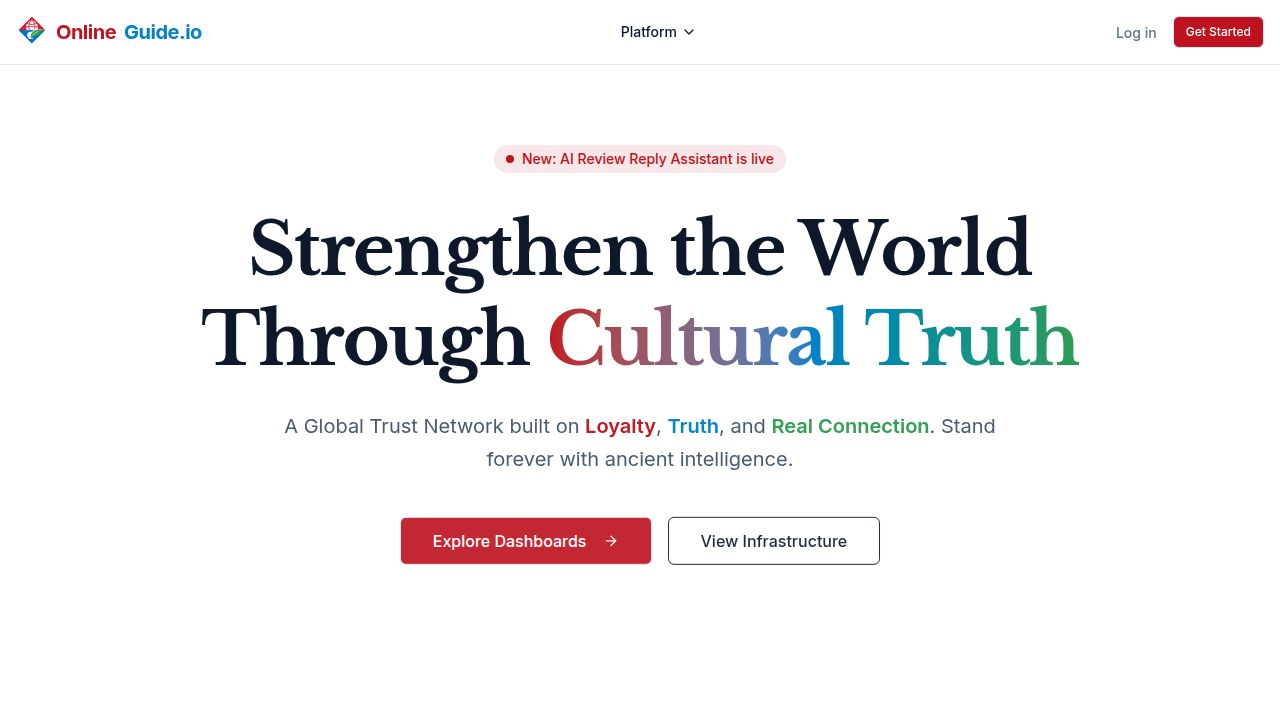
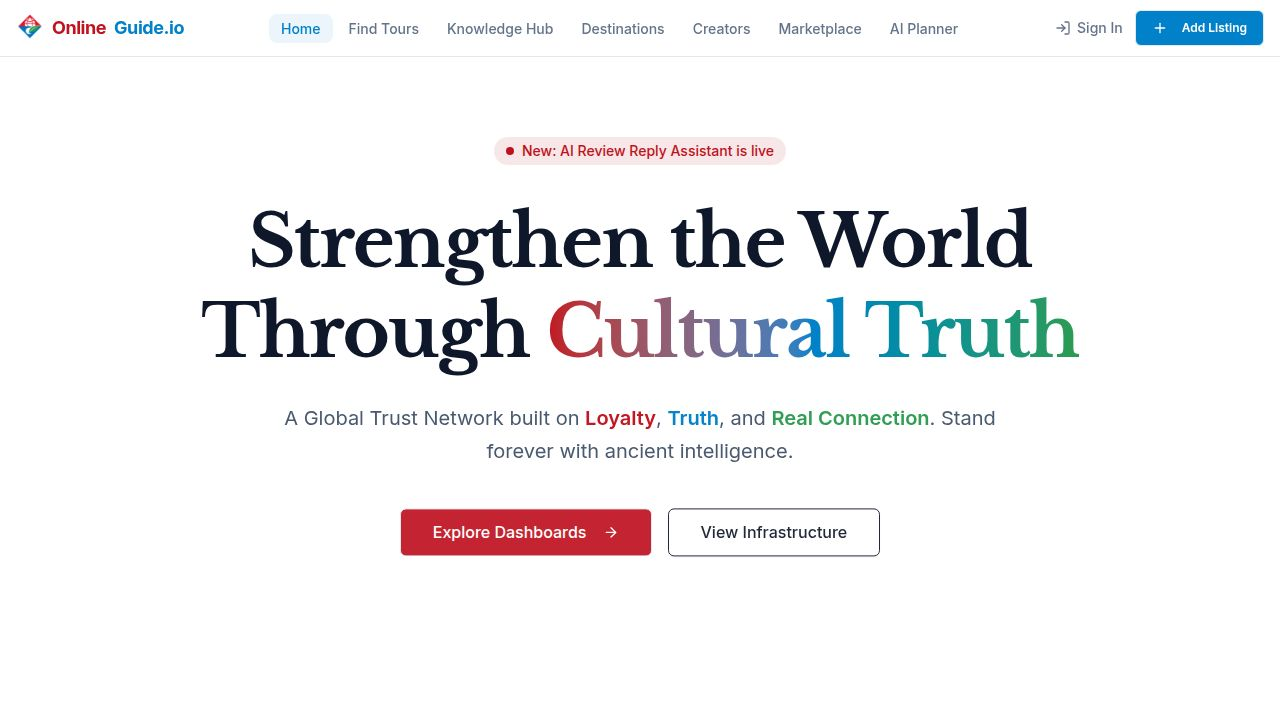
Update header layout with flat navigation and login/signup buttons
Refactor `Navbar` component to replace dropdown menu with flat navigation links and add Sign In/Add Listing buttons, updating icons and layout structure.

Replit-Commit-Author: Agent
Replit-Commit-Session-Id: 3c2bed22-3c86-448a-a54f-eb99de5b6c75
Replit-Commit-Checkpoint-Type: full_checkpoint
Replit-Commit-Event-Id: 7af0c9f6-9ca0-44e9-ac16-c6bc7ed03465
Replit-Commit-Screenshot-Url: https://storage.googleapis.com/screenshot-production-us-central1/2dc7b8b6-7c9c-47a3-91fe-757355743503/3c2bed22-3c86-448a-a54f-eb99de5b6c75/rVbjtpM
Replit-Helium-Checkpoint-Created: true

diff --git a/client/src/components/layout.tsx b/client/src/components/layout.tsx
@@ -1,120 +1,112 @@
 import { Link, useLocation } from "wouter";
-import { Menu, Zap, BarChart, MapPin, LayoutDashboard, ChevronDown, Bot, MessageSquare, TrendingUp, BookOpen, Building2, Map, GitBranch } from "lucide-react";
+import { Menu, MapPin, Bot, Map, Compass, Users, ShoppingBag, Sparkles, Plus, LogIn } from "lucide-react";
 import * as React from "react";
 import { Button } from "@/components/ui/button";
 import { Sheet, SheetContent, SheetTrigger } from "@/components/ui/sheet";
-import {
-  DropdownMenu,
-  DropdownMenuContent,
-  DropdownMenuItem,
-  DropdownMenuLabel,
-  DropdownMenuSeparator,
-  DropdownMenuTrigger
-} from "@/components/ui/dropdown-menu";
+
+const NAV_LINKS: { href: string; label: string; icon: React.ElementType }[] = [
+  { href: "/", label: "Home", icon: Map },
+  { href: "/tours-map", label: "Find Tours", icon: Compass },
+  { href: "/map", label: "Knowledge Hub", icon: Sparkles },
+  { href: "/map", label: "Destinations", icon: MapPin },
+  { href: "/map", label: "Creators", icon: Users },
+  { href: "/map", label: "Marketplace", icon: ShoppingBag },
+  { href: "/map", label: "AI Planner", icon: Bot },
+];
 
 export function Navbar() {
   const [location] = useLocation();
-  const isActive = (path: string) => location === path;
 
   return (
     <header className="sticky top-0 z-50 w-full border-b bg-background/80 backdrop-blur-md supports-[backdrop-filter]:bg-background/60">
-      <div className="container mx-auto px-4 h-16 flex items-center justify-between">
+      <div className="container mx-auto px-4 h-14 flex items-center justify-between gap-4">
         <Link href="/">
-          <span className="flex items-center gap-2 font-bold text-xl tracking-tight hover:opacity-90 transition-opacity cursor-pointer">
-            <img src="/logo.png" alt="OnlineGuide.io" className="h-8 w-auto" />
+          <span className="flex items-center gap-2 font-bold text-lg tracking-tight hover:opacity-90 transition-opacity cursor-pointer flex-shrink-0" data-testid="link-logo">
+            <img src="/logo.png" alt="OnlineGuide.io" className="h-7 w-auto" />
             <span className="text-[#C1121F]">Online</span>
             <span className="text-[#0081C9]">Guide.io</span>
           </span>
         </Link>
 
-        <nav className="hidden md:flex items-center gap-6">
-          <DropdownMenu>
-            <DropdownMenuTrigger asChild>
-              <button className="flex items-center gap-1 text-sm font-medium transition-colors hover:text-primary cursor-pointer outline-none">
-                Platform <ChevronDown className="h-4 w-4" />
-              </button>
-            </DropdownMenuTrigger>
-            <DropdownMenuContent align="start" className="w-[300px] p-4">
-              <DropdownMenuLabel className="text-xs font-bold text-muted-foreground uppercase tracking-wider mb-2">Core</DropdownMenuLabel>
-              <Link href="/map">
-                <DropdownMenuItem className="flex items-start gap-3 p-3 cursor-pointer">
-                  <Map className="h-5 w-5 text-[#0081C9] mt-0.5" />
-                  <div>
-                    <div className="font-bold">Knowledge Hub</div>
-                    <div className="text-xs text-muted-foreground">All-in-One: Map, Hotels, Travel, AI & more</div>
-                  </div>
-                </DropdownMenuItem>
+        <nav className="hidden lg:flex items-center gap-1 flex-1 justify-center" data-testid="nav-main">
+          {NAV_LINKS.map((link) => {
+            const isActive = location === link.href;
+            return (
+              <Link key={link.label} href={link.href}>
+                <span
+                  className={`px-3 py-1.5 rounded-lg text-sm font-medium transition-colors cursor-pointer whitespace-nowrap ${
+                    isActive
+                      ? "text-[#0081C9] bg-[#0081C9]/8"
+                      : "text-muted-foreground hover:text-foreground hover:bg-slate-100"
+                  }`}
+                  data-testid={`nav-${link.label.toLowerCase().replace(/\s/g, "-")}`}
+                >
+                  {link.label}
+                </span>
               </Link>
-              <Link href="/dashboard">
-                <DropdownMenuItem className="flex items-start gap-3 p-3 cursor-pointer">
-                  <LayoutDashboard className="h-5 w-5 text-slate-600 mt-0.5" />
-                  <div>
-                    <div className="font-bold">Dashboard</div>
-                    <div className="text-xs text-muted-foreground">Analytics & management console</div>
-                  </div>
-                </DropdownMenuItem>
-              </Link>
-              <Link href="/tours-map">
-                <DropdownMenuItem className="flex items-start gap-3 p-3 cursor-pointer">
-                  <Map className="h-5 w-5 text-blue-600 mt-0.5" />
-                  <div>
-                    <div className="font-bold">Tours Map</div>
-                    <div className="text-xs text-muted-foreground">Interactive Cambodia tourism map</div>
-                  </div>
-                </DropdownMenuItem>
-              </Link>
-              <Link href="/graph-explorer">
-                <DropdownMenuItem className="flex items-start gap-3 p-3 cursor-pointer">
-                  <GitBranch className="h-5 w-5 text-violet-600 mt-0.5" />
-                  <div>
-                    <div className="font-bold">Graph Explorer</div>
-                    <div className="text-xs text-muted-foreground">Knowledge graph & node relationships</div>
-                  </div>
-                </DropdownMenuItem>
-              </Link>
-            </DropdownMenuContent>
-          </DropdownMenu>
+            );
+          })}
         </nav>
 
-        <div className="flex items-center gap-4">
+        <div className="hidden lg:flex items-center gap-3 flex-shrink-0">
           <Link href="/login">
-            <span className="hidden md:inline-block text-sm font-medium text-muted-foreground hover:text-primary cursor-pointer">
-              Log in
+            <span className="flex items-center gap-1.5 text-sm font-medium text-muted-foreground hover:text-foreground cursor-pointer transition-colors" data-testid="nav-sign-in">
+              <LogIn className="h-4 w-4" /> Sign In
             </span>
           </Link>
           <Link href="/map">
-            <Button variant="default" size="sm" className="hidden md:inline-flex">
-              Get Started
+            <Button size="sm" className="bg-[#0081C9] hover:bg-[#006ba3] text-white font-semibold px-4 h-9" data-testid="nav-add-listing">
+              <Plus className="h-4 w-4 mr-1.5" /> Add Listing
             </Button>
           </Link>
-
-          <Sheet>
-            <SheetTrigger asChild>
-              <Button variant="ghost" size="icon" className="md:hidden">
-                <Menu className="h-5 w-5" />
-              </Button>
-            </SheetTrigger>
-            <SheetContent side="right">
-              <div className="flex flex-col gap-6 mt-6">
-                <div className="space-y-4">
-                  <h4 className="text-sm font-bold text-muted-foreground uppercase tracking-wider">Platform</h4>
-                  <Link href="/map"><span className="block text-lg font-medium">Knowledge Hub</span></Link>
-                  <Link href="/tours-map"><span className="block text-lg font-medium">Tours Map</span></Link>
-                  <Link href="/graph-explorer"><span className="block text-lg font-medium">Graph Explorer</span></Link>
-                  <Link href="/dashboard"><span className="block text-lg font-medium">Dashboard</span></Link>
-                </div>
-                <div className="mt-4 pt-4 border-t">
-                  <Link href="/login">
-                    <Button variant="outline" className="w-full mb-2">Log in</Button>
-                  </Link>
-                  <Link href="/map">
-                    <Button className="w-full">Get Started</Button>
-                  </Link>
-                </div>
-              </div>
-            </SheetContent>
-          </Sheet>
         </div>
+
+        <Sheet>
+          <SheetTrigger asChild>
+            <Button variant="ghost" size="icon" className="lg:hidden flex-shrink-0">
+              <Menu className="h-5 w-5" />
+            </Button>
+          </SheetTrigger>
+          <SheetContent side="right" className="w-72">
+            <div className="flex flex-col gap-1 mt-6">
+              <div className="flex items-center gap-2 font-bold text-lg mb-4 px-2">
+                <img src="/logo.png" alt="OnlineGuide.io" className="h-6 w-auto" />
+                <span className="text-[#C1121F]">Online</span>
+                <span className="text-[#0081C9]">Guide.io</span>
+              </div>
+              {NAV_LINKS.map((link) => {
+                const Icon = link.icon;
+                const isActive = location === link.href;
+                return (
+                  <Link key={link.label} href={link.href}>
+                    <span
+                      className={`flex items-center gap-3 px-3 py-2.5 rounded-lg text-sm font-medium transition-colors cursor-pointer ${
+                        isActive
+                          ? "text-[#0081C9] bg-[#0081C9]/8"
+                          : "text-muted-foreground hover:text-foreground hover:bg-slate-100"
+                      }`}
+                      data-testid={`mobile-nav-${link.label.toLowerCase().replace(/\s/g, "-")}`}
+                    >
+                      <Icon className="h-4 w-4 flex-shrink-0" /> {link.label}
+                    </span>
+                  </Link>
+                );
+              })}
+              <div className="mt-4 pt-4 border-t space-y-2 px-1">
+                <Link href="/login">
+                  <Button variant="outline" className="w-full justify-center gap-2" data-testid="mobile-sign-in">
+                    <LogIn className="h-4 w-4" /> Sign In
+                  </Button>
+                </Link>
+                <Link href="/map">
+                  <Button className="w-full justify-center gap-2 bg-[#0081C9] hover:bg-[#006ba3]" data-testid="mobile-add-listing">
+                    <Plus className="h-4 w-4" /> Add Listing
+                  </Button>
+                </Link>
+              </div>
+            </div>
+          </SheetContent>
+        </Sheet>
       </div>
     </header>
   );
@@ -140,18 +132,18 @@ export function Footer() {
             <h4 className="font-semibold mb-4 text-slate-900">Platform</h4>
             <ul className="space-y-2 text-sm text-muted-foreground">
               <li><Link href="/map" className="hover:text-primary transition-colors">Knowledge Hub</Link></li>
-              <li><Link href="/dashboard" className="hover:text-primary transition-colors">Dashboard</Link></li>
-              <li><Link href="/marketplace" className="hover:text-primary transition-colors">Marketplace</Link></li>
-              <li><Link href="/community" className="hover:text-primary transition-colors">Community</Link></li>
+              <li><Link href="/tours-map" className="hover:text-primary transition-colors">Find Tours</Link></li>
+              <li><Link href="/map" className="hover:text-primary transition-colors">Marketplace</Link></li>
+              <li><Link href="/map" className="hover:text-primary transition-colors">AI Planner</Link></li>
             </ul>
           </div>
 
           <div>
             <h4 className="font-semibold mb-4 text-slate-900">Explore</h4>
             <ul className="space-y-2 text-sm text-muted-foreground">
-              <li><Link href="/map" className="hover:text-primary transition-colors">Intelligence Hub</Link></li>
+              <li><Link href="/map" className="hover:text-primary transition-colors">Destinations</Link></li>
+              <li><Link href="/map" className="hover:text-primary transition-colors">Creators</Link></li>
               <li><Link href="/map" className="hover:text-primary transition-colors">Tourism Flow</Link></li>
-              <li><Link href="/map" className="hover:text-primary transition-colors">Creator Studio</Link></li>
               <li><Link href="/pricing" className="hover:text-primary transition-colors">Pricing</Link></li>
             </ul>
           </div>
